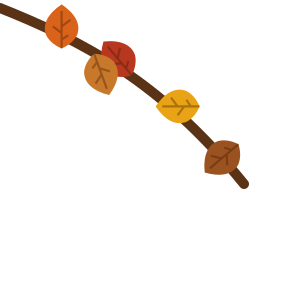
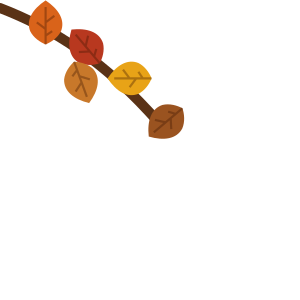
theme-pack: Autumn: shorter corner branch, tile clear of the INPUTS label, rimmed knob

Changed region(s): [[0.09, 0.0, 0.84, 0.63]]

diff --git a/tools/theme-pack/packs/themes/autumn.js b/tools/theme-pack/packs/themes/autumn.js
@@ -2,13 +2,13 @@
   // Falling leaves: leaves drifting behind everything, a branch in each top corner, a leaf pile along the bottom edge, amber light at focus, an acorn on every slider and a leaf on the switches.
   var SKY = '<svg style="position:absolute;left:447px;top:281.8px;opacity:0.42" width="29" height="29" viewBox="0 0 24 24" aria-hidden="true"><g transform="rotate(257 12 12)"><path d="M12 2C6 6 3 11 5 16c1.5 3 4.5 5 7 6 2.5-1 5.5-3 7-6 2-5-1-10-7-14z" fill="#D9631A"></path><path d="M12 5v17M12 12l-4-3M12 15l4-3M12 18l-3-2" stroke="rgba(60,20,0,0.35)" stroke-width="1" fill="none"></path></g></svg><svg style="position:absolute;left:1574.7px;top:86.8px;opacity:0.42" width="37" height="37" viewBox="0 0 24 24" aria-hidden="true"><g transform="rotate(76 12 12)"><path d="M12 2C6 6 3 11 5 16c1.5 3 4.5 5 7 6 2.5-1 5.5-3 7-6 2-5-1-10-7-14z" fill="#B8381F"></path><path d="M12 5v17M12 12l-4-3M12 15l4-3M12 18l-3-2" stroke="rgba(60,20,0,0.35)" stroke-width="1" fill="none"></path></g></svg><svg style="position:absolute;left:1465.1px;top:275.9px;opacity:0.47" width="29" height="29" viewBox="0 0 24 24" aria-hidden="true"><g transform="rotate(186 12 12)"><path d="M12 2C6 6 3 11 5 16c1.5 3 4.5 5 7 6 2.5-1 5.5-3 7-6 2-5-1-10-7-14z" fill="#E8A317"></path><path d="M12 5v17M12 12l-4-3M12 15l4-3M12 18l-3-2" stroke="rgba(60,20,0,0.35)" stroke-width="1" fill="none"></path></g></svg><svg style="position:absolute;left:1193.7px;top:400.3px;opacity:0.53" width="32" height="32" viewBox="0 0 24 24" aria-hidden="true"><g transform="rotate(143 12 12)"><path d="M12 2C6 6 3 11 5 16c1.5 3 4.5 5 7 6 2.5-1 5.5-3 7-6 2-5-1-10-7-14z" fill="#9A5320"></path><path d="M12 5v17M12 12l-4-3M12 15l4-3M12 18l-3-2" stroke="rgba(60,20,0,0.35)" stroke-width="1" fill="none"></path></g></svg><svg style="position:absolute;left:235.9px;top:747.5px;opacity:0.41" width="39" height="39" viewBox="0 0 24 24" aria-hidden="true"><g transform="rotate(109 12 12)"><path d="M12 2C6 6 3 11 5 16c1.5 3 4.5 5 7 6 2.5-1 5.5-3 7-6 2-5-1-10-7-14z" fill="#C8782A"></path><path d="M12 5v17M12 12l-4-3M12 15l4-3M12 18l-3-2" stroke="rgba(60,20,0,0.35)" stroke-width="1" fill="none"></path></g></svg><svg style="position:absolute;left:233.2px;top:587.7px;opacity:0.47" width="23" height="23" viewBox="0 0 24 24" aria-hidden="true"><g transform="rotate(332 12 12)"><path d="M12 2C6 6 3 11 5 16c1.5 3 4.5 5 7 6 2.5-1 5.5-3 7-6 2-5-1-10-7-14z" fill="#D9631A"></path><path d="M12 5v17M12 12l-4-3M12 15l4-3M12 18l-3-2" stroke="rgba(60,20,0,0.35)" stroke-width="1" fill="none"></path></g></svg><svg style="position:absolute;left:1500.5px;top:743.1px;opacity:0.41" width="43" height="43" viewBox="0 0 24 24" aria-hidden="true"><g transform="rotate(130 12 12)"><path d="M12 2C6 6 3 11 5 16c1.5 3 4.5 5 7 6 2.5-1 5.5-3 7-6 2-5-1-10-7-14z" fill="#B8381F"></path><path d="M12 5v17M12 12l-4-3M12 15l4-3M12 18l-3-2" stroke="rgba(60,20,0,0.35)" stroke-width="1" fill="none"></path></g></svg><svg style="position:absolute;left:1442.5px;top:32.5px;opacity:0.57" width="26" height="26" viewBox="0 0 24 24" aria-hidden="true"><g transform="rotate(63 12 12)"><path d="M12 2C6 6 3 11 5 16c1.5 3 4.5 5 7 6 2.5-1 5.5-3 7-6 2-5-1-10-7-14z" fill="#E8A317"></path><path d="M12 5v17M12 12l-4-3M12 15l4-3M12 18l-3-2" stroke="rgba(60,20,0,0.35)" stroke-width="1" fill="none"></path></g></svg><svg style="position:absolute;left:525.9px;top:888.7px;opacity:0.59" width="38" height="38" viewBox="0 0 24 24" aria-hidden="true"><g transform="rotate(261 12 12)"><path d="M12 2C6 6 3 11 5 16c1.5 3 4.5 5 7 6 2.5-1 5.5-3 7-6 2-5-1-10-7-14z" fill="#9A5320"></path><path d="M12 5v17M12 12l-4-3M12 15l4-3M12 18l-3-2" stroke="rgba(60,20,0,0.35)" stroke-width="1" fill="none"></path></g></svg><svg style="position:absolute;left:287.6px;top:471.3px;opacity:0.51" width="35" height="35" viewBox="0 0 24 24" aria-hidden="true"><g transform="rotate(148 12 12)"><path d="M12 2C6 6 3 11 5 16c1.5 3 4.5 5 7 6 2.5-1 5.5-3 7-6 2-5-1-10-7-14z" fill="#C8782A"></path><path d="M12 5v17M12 12l-4-3M12 15l4-3M12 18l-3-2" stroke="rgba(60,20,0,0.35)" stroke-width="1" fill="none"></path></g></svg><svg style="position:absolute;left:472.1px;top:629.8px;opacity:0.41" width="32" height="32" viewBox="0 0 24 24" aria-hidden="true"><g transform="rotate(273 12 12)"><path d="M12 2C6 6 3 11 5 16c1.5 3 4.5 5 7 6 2.5-1 5.5-3 7-6 2-5-1-10-7-14z" fill="#D9631A"></path><path d="M12 5v17M12 12l-4-3M12 15l4-3M12 18l-3-2" stroke="rgba(60,20,0,0.35)" stroke-width="1" fill="none"></path></g></svg><svg style="position:absolute;left:255.5px;top:36.3px;opacity:0.48" width="37" height="37" viewBox="0 0 24 24" aria-hidden="true"><g transform="rotate(209 12 12)"><path d="M12 2C6 6 3 11 5 16c1.5 3 4.5 5 7 6 2.5-1 5.5-3 7-6 2-5-1-10-7-14z" fill="#B8381F"></path><path d="M12 5v17M12 12l-4-3M12 15l4-3M12 18l-3-2" stroke="rgba(60,20,0,0.35)" stroke-width="1" fill="none"></path></g></svg><svg style="position:absolute;left:520.1px;top:1014.7px;opacity:0.43" width="25" height="25" viewBox="0 0 24 24" aria-hidden="true"><g transform="rotate(14 12 12)"><path d="M12 2C6 6 3 11 5 16c1.5 3 4.5 5 7 6 2.5-1 5.5-3 7-6 2-5-1-10-7-14z" fill="#E8A317"></path><path d="M12 5v17M12 12l-4-3M12 15l4-3M12 18l-3-2" stroke="rgba(60,20,0,0.35)" stroke-width="1" fill="none"></path></g></svg><svg style="position:absolute;left:959.4px;top:283.7px;opacity:0.55" width="29" height="29" viewBox="0 0 24 24" aria-hidden="true"><g transform="rotate(184 12 12)"><path d="M12 2C6 6 3 11 5 16c1.5 3 4.5 5 7 6 2.5-1 5.5-3 7-6 2-5-1-10-7-14z" fill="#9A5320"></path><path d="M12 5v17M12 12l-4-3M12 15l4-3M12 18l-3-2" stroke="rgba(60,20,0,0.35)" stroke-width="1" fill="none"></path></g></svg><svg style="position:absolute;left:376.6px;top:552.9px;opacity:0.52" width="26" height="26" viewBox="0 0 24 24" aria-hidden="true"><g transform="rotate(138 12 12)"><path d="M12 2C6 6 3 11 5 16c1.5 3 4.5 5 7 6 2.5-1 5.5-3 7-6 2-5-1-10-7-14z" fill="#C8782A"></path><path d="M12 5v17M12 12l-4-3M12 15l4-3M12 18l-3-2" stroke="rgba(60,20,0,0.35)" stroke-width="1" fill="none"></path></g></svg><svg style="position:absolute;left:277.5px;top:69.5px;opacity:0.60" width="37" height="37" viewBox="0 0 24 24" aria-hidden="true"><g transform="rotate(9 12 12)"><path d="M12 2C6 6 3 11 5 16c1.5 3 4.5 5 7 6 2.5-1 5.5-3 7-6 2-5-1-10-7-14z" fill="#D9631A"></path><path d="M12 5v17M12 12l-4-3M12 15l4-3M12 18l-3-2" stroke="rgba(60,20,0,0.35)" stroke-width="1" fill="none"></path></g></svg><svg style="position:absolute;left:478.3px;top:375.5px;opacity:0.47" width="39" height="39" viewBox="0 0 24 24" aria-hidden="true"><g transform="rotate(114 12 12)"><path d="M12 2C6 6 3 11 5 16c1.5 3 4.5 5 7 6 2.5-1 5.5-3 7-6 2-5-1-10-7-14z" fill="#B8381F"></path><path d="M12 5v17M12 12l-4-3M12 15l4-3M12 18l-3-2" stroke="rgba(60,20,0,0.35)" stroke-width="1" fill="none"></path></g></svg><svg style="position:absolute;left:1814.4px;top:562.3px;opacity:0.57" width="37" height="37" viewBox="0 0 24 24" aria-hidden="true"><g transform="rotate(12 12 12)"><path d="M12 2C6 6 3 11 5 16c1.5 3 4.5 5 7 6 2.5-1 5.5-3 7-6 2-5-1-10-7-14z" fill="#E8A317"></path><path d="M12 5v17M12 12l-4-3M12 15l4-3M12 18l-3-2" stroke="rgba(60,20,0,0.35)" stroke-width="1" fill="none"></path></g></svg><svg style="position:absolute;left:1202.3px;top:389.3px;opacity:0.48" width="25" height="25" viewBox="0 0 24 24" aria-hidden="true"><g transform="rotate(322 12 12)"><path d="M12 2C6 6 3 11 5 16c1.5 3 4.5 5 7 6 2.5-1 5.5-3 7-6 2-5-1-10-7-14z" fill="#9A5320"></path><path d="M12 5v17M12 12l-4-3M12 15l4-3M12 18l-3-2" stroke="rgba(60,20,0,0.35)" stroke-width="1" fill="none"></path></g></svg><svg style="position:absolute;left:903.1px;top:978.2px;opacity:0.58" width="35" height="35" viewBox="0 0 24 24" aria-hidden="true"><g transform="rotate(82 12 12)"><path d="M12 2C6 6 3 11 5 16c1.5 3 4.5 5 7 6 2.5-1 5.5-3 7-6 2-5-1-10-7-14z" fill="#C8782A"></path><path d="M12 5v17M12 12l-4-3M12 15l4-3M12 18l-3-2" stroke="rgba(60,20,0,0.35)" stroke-width="1" fill="none"></path></g></svg>';
   var BOTTOM = '<svg width="1920" height="54" viewBox="0 0 1920 54" aria-hidden="true"><g transform="translate(0 -16)"><path d="M0 54V40C200 32 380 38 600 36S1000 30 1300 38S1700 34 1920 36V54Z" fill="#4A2812" opacity="0.9"></path><ellipse cx="25" cy="44" rx="10" ry="6" transform="rotate(12 25 44)" fill="#D9631A" opacity="0.92"></ellipse><ellipse cx="68" cy="41" rx="10" ry="4" transform="rotate(22 68 41)" fill="#B8381F" opacity="0.92"></ellipse><ellipse cx="103" cy="36" rx="11" ry="5" transform="rotate(-22 103 36)" fill="#E8A317" opacity="0.92"></ellipse><ellipse cx="160" cy="41" rx="11" ry="6" transform="rotate(-26 160 41)" fill="#9A5320" opacity="0.92"></ellipse><ellipse cx="204" cy="39" rx="13" ry="5" transform="rotate(5 204 39)" fill="#C8782A" opacity="0.92"></ellipse><ellipse cx="234" cy="48" rx="11" ry="5" transform="rotate(-17 234 48)" fill="#D9631A" opacity="0.92"></ellipse><ellipse cx="272" cy="45" rx="10" ry="5" transform="rotate(28 272 45)" fill="#B8381F" opacity="0.92"></ellipse><ellipse cx="312" cy="46" rx="10" ry="5" transform="rotate(-13 312 46)" fill="#E8A317" opacity="0.92"></ellipse><ellipse cx="366" cy="41" rx="11" ry="5" transform="rotate(-24 366 41)" fill="#9A5320" opacity="0.92"></ellipse><ellipse cx="392" cy="35" rx="10" ry="6" transform="rotate(-13 392 35)" fill="#C8782A" opacity="0.92"></ellipse><ellipse cx="432" cy="40" rx="10" ry="5" transform="rotate(-30 432 40)" fill="#D9631A" opacity="0.92"></ellipse><ellipse cx="484" cy="37" rx="11" ry="5" transform="rotate(12 484 37)" fill="#B8381F" opacity="0.92"></ellipse><ellipse cx="520" cy="43" rx="10" ry="4" transform="rotate(-25 520 43)" fill="#E8A317" opacity="0.92"></ellipse><ellipse cx="564" cy="47" rx="14" ry="4" transform="rotate(-1 564 47)" fill="#9A5320" opacity="0.92"></ellipse><ellipse cx="597" cy="40" rx="9" ry="5" transform="rotate(17 597 40)" fill="#C8782A" opacity="0.92"></ellipse><ellipse cx="650" cy="38" rx="12" ry="6" transform="rotate(-27 650 38)" fill="#D9631A" opacity="0.92"></ellipse><ellipse cx="690" cy="47" rx="9" ry="5" transform="rotate(28 690 47)" fill="#B8381F" opacity="0.92"></ellipse><ellipse cx="724" cy="48" rx="10" ry="4" transform="rotate(28 724 48)" fill="#E8A317" opacity="0.92"></ellipse><ellipse cx="762" cy="36" rx="13" ry="5" transform="rotate(4 762 36)" fill="#9A5320" opacity="0.92"></ellipse><ellipse cx="815" cy="37" rx="9" ry="6" transform="rotate(-7 815 37)" fill="#C8782A" opacity="0.92"></ellipse><ellipse cx="847" cy="39" rx="12" ry="5" transform="rotate(-23 847 39)" fill="#D9631A" opacity="0.92"></ellipse><ellipse cx="892" cy="42" rx="10" ry="4" transform="rotate(-12 892 42)" fill="#B8381F" opacity="0.92"></ellipse><ellipse cx="935" cy="40" rx="12" ry="4" transform="rotate(-19 935 40)" fill="#E8A317" opacity="0.92"></ellipse><ellipse cx="968" cy="38" rx="14" ry="4" transform="rotate(6 968 38)" fill="#9A5320" opacity="0.92"></ellipse><ellipse cx="1012" cy="38" rx="10" ry="6" transform="rotate(8 1012 38)" fill="#C8782A" opacity="0.92"></ellipse><ellipse cx="1047" cy="36" rx="10" ry="5" transform="rotate(9 1047 36)" fill="#D9631A" opacity="0.92"></ellipse><ellipse cx="1095" cy="39" rx="13" ry="5" transform="rotate(-17 1095 39)" fill="#B8381F" opacity="0.92"></ellipse><ellipse cx="1128" cy="46" rx="14" ry="5" transform="rotate(-7 1128 46)" fill="#E8A317" opacity="0.92"></ellipse><ellipse cx="1176" cy="39" rx="14" ry="4" transform="rotate(9 1176 39)" fill="#9A5320" opacity="0.92"></ellipse><ellipse cx="1211" cy="34" rx="13" ry="6" transform="rotate(13 1211 34)" fill="#C8782A" opacity="0.92"></ellipse><ellipse cx="1253" cy="41" rx="9" ry="4" transform="rotate(-15 1253 41)" fill="#D9631A" opacity="0.92"></ellipse><ellipse cx="1297" cy="46" rx="12" ry="4" transform="rotate(-25 1297 46)" fill="#B8381F" opacity="0.92"></ellipse><ellipse cx="1351" cy="43" rx="11" ry="4" transform="rotate(3 1351 43)" fill="#E8A317" opacity="0.92"></ellipse><ellipse cx="1386" cy="40" rx="12" ry="5" transform="rotate(15 1386 40)" fill="#9A5320" opacity="0.92"></ellipse><ellipse cx="1432" cy="44" rx="10" ry="4" transform="rotate(-26 1432 44)" fill="#C8782A" opacity="0.92"></ellipse><ellipse cx="1464" cy="48" rx="9" ry="6" transform="rotate(17 1464 48)" fill="#D9631A" opacity="0.92"></ellipse><ellipse cx="1496" cy="41" rx="13" ry="5" transform="rotate(12 1496 41)" fill="#B8381F" opacity="0.92"></ellipse><ellipse cx="1540" cy="43" rx="11" ry="5" transform="rotate(24 1540 43)" fill="#E8A317" opacity="0.92"></ellipse><ellipse cx="1583" cy="41" rx="10" ry="5" transform="rotate(-8 1583 41)" fill="#9A5320" opacity="0.92"></ellipse><ellipse cx="1621" cy="48" rx="14" ry="6" transform="rotate(-2 1621 48)" fill="#C8782A" opacity="0.92"></ellipse><ellipse cx="1666" cy="36" rx="10" ry="5" transform="rotate(10 1666 36)" fill="#D9631A" opacity="0.92"></ellipse><ellipse cx="1715" cy="36" rx="12" ry="5" transform="rotate(-11 1715 36)" fill="#B8381F" opacity="0.92"></ellipse><ellipse cx="1746" cy="38" rx="11" ry="6" transform="rotate(-22 1746 38)" fill="#E8A317" opacity="0.92"></ellipse><ellipse cx="1788" cy="38" rx="12" ry="6" transform="rotate(20 1788 38)" fill="#9A5320" opacity="0.92"></ellipse><ellipse cx="1826" cy="44" rx="12" ry="5" transform="rotate(23 1826 44)" fill="#C8782A" opacity="0.92"></ellipse><ellipse cx="1876" cy="47" rx="11" ry="5" transform="rotate(-1 1876 47)" fill="#D9631A" opacity="0.92"></ellipse></g></svg>';
-  var CORNER = '<svg width="150" height="150" viewBox="0 0 150 150" aria-hidden="true"><path d="M150 4C110 20 70 40 28 92" stroke="#5A3216" stroke-width="5" fill="none" stroke-linecap="round"></path><g transform="translate(106 0) scale(1.1)"><g transform="rotate(0 12 12)"><path d="M12 2C6 6 3 11 5 16c1.5 3 4.5 5 7 6 2.5-1 5.5-3 7-6 2-5-1-10-7-14z" fill="#D9631A"></path><path d="M12 5v17M12 12l-4-3M12 15l4-3M12 18l-3-2" stroke="rgba(60,20,0,0.35)" stroke-width="1" fill="none"></path></g></g><g transform="translate(78 16) scale(1.1)"><g transform="rotate(40 12 12)"><path d="M12 2C6 6 3 11 5 16c1.5 3 4.5 5 7 6 2.5-1 5.5-3 7-6 2-5-1-10-7-14z" fill="#B8381F"></path><path d="M12 5v17M12 12l-4-3M12 15l4-3M12 18l-3-2" stroke="rgba(60,20,0,0.35)" stroke-width="1" fill="none"></path></g></g><g transform="translate(48 40) scale(1.1)"><g transform="rotate(90 12 12)"><path d="M12 2C6 6 3 11 5 16c1.5 3 4.5 5 7 6 2.5-1 5.5-3 7-6 2-5-1-10-7-14z" fill="#E8A317"></path><path d="M12 5v17M12 12l-4-3M12 15l4-3M12 18l-3-2" stroke="rgba(60,20,0,0.35)" stroke-width="1" fill="none"></path></g></g><g transform="translate(26 66) scale(1.1)"><g transform="rotate(130 12 12)"><path d="M12 2C6 6 3 11 5 16c1.5 3 4.5 5 7 6 2.5-1 5.5-3 7-6 2-5-1-10-7-14z" fill="#9A5320"></path><path d="M12 5v17M12 12l-4-3M12 15l4-3M12 18l-3-2" stroke="rgba(60,20,0,0.35)" stroke-width="1" fill="none"></path></g></g><g transform="translate(86 24) scale(1.1)"><g transform="rotate(200 12 12)"><path d="M12 2C6 6 3 11 5 16c1.5 3 4.5 5 7 6 2.5-1 5.5-3 7-6 2-5-1-10-7-14z" fill="#C8782A"></path><path d="M12 5v17M12 12l-4-3M12 15l4-3M12 18l-3-2" stroke="rgba(60,20,0,0.35)" stroke-width="1" fill="none"></path></g></g></svg>';
-  var CORNER_L = '<svg width="150" height="150" viewBox="0 0 150 150" aria-hidden="true" style="-webkit-transform:scaleX(-1);transform:scaleX(-1)"><path d="M150 4C110 20 70 40 28 92" stroke="#5A3216" stroke-width="5" fill="none" stroke-linecap="round"></path><g transform="translate(106 0) scale(1.1)"><g transform="rotate(0 12 12)"><path d="M12 2C6 6 3 11 5 16c1.5 3 4.5 5 7 6 2.5-1 5.5-3 7-6 2-5-1-10-7-14z" fill="#D9631A"></path><path d="M12 5v17M12 12l-4-3M12 15l4-3M12 18l-3-2" stroke="rgba(60,20,0,0.35)" stroke-width="1" fill="none"></path></g></g><g transform="translate(78 16) scale(1.1)"><g transform="rotate(40 12 12)"><path d="M12 2C6 6 3 11 5 16c1.5 3 4.5 5 7 6 2.5-1 5.5-3 7-6 2-5-1-10-7-14z" fill="#B8381F"></path><path d="M12 5v17M12 12l-4-3M12 15l4-3M12 18l-3-2" stroke="rgba(60,20,0,0.35)" stroke-width="1" fill="none"></path></g></g><g transform="translate(48 40) scale(1.1)"><g transform="rotate(90 12 12)"><path d="M12 2C6 6 3 11 5 16c1.5 3 4.5 5 7 6 2.5-1 5.5-3 7-6 2-5-1-10-7-14z" fill="#E8A317"></path><path d="M12 5v17M12 12l-4-3M12 15l4-3M12 18l-3-2" stroke="rgba(60,20,0,0.35)" stroke-width="1" fill="none"></path></g></g><g transform="translate(26 66) scale(1.1)"><g transform="rotate(130 12 12)"><path d="M12 2C6 6 3 11 5 16c1.5 3 4.5 5 7 6 2.5-1 5.5-3 7-6 2-5-1-10-7-14z" fill="#9A5320"></path><path d="M12 5v17M12 12l-4-3M12 15l4-3M12 18l-3-2" stroke="rgba(60,20,0,0.35)" stroke-width="1" fill="none"></path></g></g><g transform="translate(86 24) scale(1.1)"><g transform="rotate(200 12 12)"><path d="M12 2C6 6 3 11 5 16c1.5 3 4.5 5 7 6 2.5-1 5.5-3 7-6 2-5-1-10-7-14z" fill="#C8782A"></path><path d="M12 5v17M12 12l-4-3M12 15l4-3M12 18l-3-2" stroke="rgba(60,20,0,0.35)" stroke-width="1" fill="none"></path></g></g></svg>';
+  var CORNER = '<svg width="150" height="150" viewBox="0 0 150 150" aria-hidden="true"><path d="M150 4C124 14 98 30 70 62" stroke="#5A3216" stroke-width="5" fill="none" stroke-linecap="round"></path><g transform="translate(114 -2) scale(1.1)"><g transform="rotate(0 12 12)"><path d="M12 2C6 6 3 11 5 16c1.5 3 4.5 5 7 6 2.5-1 5.5-3 7-6 2-5-1-10-7-14z" fill="#D9631A"></path><path d="M12 5v17M12 12l-4-3M12 15l4-3M12 18l-3-2" stroke="rgba(60,20,0,0.35)" stroke-width="1" fill="none"></path></g></g><g transform="translate(94 10) scale(1.1)"><g transform="rotate(40 12 12)"><path d="M12 2C6 6 3 11 5 16c1.5 3 4.5 5 7 6 2.5-1 5.5-3 7-6 2-5-1-10-7-14z" fill="#B8381F"></path><path d="M12 5v17M12 12l-4-3M12 15l4-3M12 18l-3-2" stroke="rgba(60,20,0,0.35)" stroke-width="1" fill="none"></path></g></g><g transform="translate(72 26) scale(1.1)"><g transform="rotate(90 12 12)"><path d="M12 2C6 6 3 11 5 16c1.5 3 4.5 5 7 6 2.5-1 5.5-3 7-6 2-5-1-10-7-14z" fill="#E8A317"></path><path d="M12 5v17M12 12l-4-3M12 15l4-3M12 18l-3-2" stroke="rgba(60,20,0,0.35)" stroke-width="1" fill="none"></path></g></g><g transform="translate(54 48) scale(1.1)"><g transform="rotate(130 12 12)"><path d="M12 2C6 6 3 11 5 16c1.5 3 4.5 5 7 6 2.5-1 5.5-3 7-6 2-5-1-10-7-14z" fill="#9A5320"></path><path d="M12 5v17M12 12l-4-3M12 15l4-3M12 18l-3-2" stroke="rgba(60,20,0,0.35)" stroke-width="1" fill="none"></path></g></g><g transform="translate(96 28) scale(1.1)"><g transform="rotate(200 12 12)"><path d="M12 2C6 6 3 11 5 16c1.5 3 4.5 5 7 6 2.5-1 5.5-3 7-6 2-5-1-10-7-14z" fill="#C8782A"></path><path d="M12 5v17M12 12l-4-3M12 15l4-3M12 18l-3-2" stroke="rgba(60,20,0,0.35)" stroke-width="1" fill="none"></path></g></g></svg>';
+  var CORNER_L = '<svg width="150" height="150" viewBox="0 0 150 150" aria-hidden="true" style="-webkit-transform:scaleX(-1);transform:scaleX(-1)"><path d="M150 4C124 14 98 30 70 62" stroke="#5A3216" stroke-width="5" fill="none" stroke-linecap="round"></path><g transform="translate(114 -2) scale(1.1)"><g transform="rotate(0 12 12)"><path d="M12 2C6 6 3 11 5 16c1.5 3 4.5 5 7 6 2.5-1 5.5-3 7-6 2-5-1-10-7-14z" fill="#D9631A"></path><path d="M12 5v17M12 12l-4-3M12 15l4-3M12 18l-3-2" stroke="rgba(60,20,0,0.35)" stroke-width="1" fill="none"></path></g></g><g transform="translate(94 10) scale(1.1)"><g transform="rotate(40 12 12)"><path d="M12 2C6 6 3 11 5 16c1.5 3 4.5 5 7 6 2.5-1 5.5-3 7-6 2-5-1-10-7-14z" fill="#B8381F"></path><path d="M12 5v17M12 12l-4-3M12 15l4-3M12 18l-3-2" stroke="rgba(60,20,0,0.35)" stroke-width="1" fill="none"></path></g></g><g transform="translate(72 26) scale(1.1)"><g transform="rotate(90 12 12)"><path d="M12 2C6 6 3 11 5 16c1.5 3 4.5 5 7 6 2.5-1 5.5-3 7-6 2-5-1-10-7-14z" fill="#E8A317"></path><path d="M12 5v17M12 12l-4-3M12 15l4-3M12 18l-3-2" stroke="rgba(60,20,0,0.35)" stroke-width="1" fill="none"></path></g></g><g transform="translate(54 48) scale(1.1)"><g transform="rotate(130 12 12)"><path d="M12 2C6 6 3 11 5 16c1.5 3 4.5 5 7 6 2.5-1 5.5-3 7-6 2-5-1-10-7-14z" fill="#9A5320"></path><path d="M12 5v17M12 12l-4-3M12 15l4-3M12 18l-3-2" stroke="rgba(60,20,0,0.35)" stroke-width="1" fill="none"></path></g></g><g transform="translate(96 28) scale(1.1)"><g transform="rotate(200 12 12)"><path d="M12 2C6 6 3 11 5 16c1.5 3 4.5 5 7 6 2.5-1 5.5-3 7-6 2-5-1-10-7-14z" fill="#C8782A"></path><path d="M12 5v17M12 12l-4-3M12 15l4-3M12 18l-3-2" stroke="rgba(60,20,0,0.35)" stroke-width="1" fill="none"></path></g></g></svg>';
   var ACCENT = '<svg width="100%" height="100%" viewBox="0 0 24 24" aria-hidden="true"><g transform="rotate(-20 12 12)"><path d="M12 2C6 6 3 11 5 16c1.5 3 4.5 5 7 6 2.5-1 5.5-3 7-6 2-5-1-10-7-14z" fill="#D9631A"></path><path d="M12 5v17M12 12l-4-3M12 15l4-3M12 18l-3-2" stroke="rgba(60,20,0,0.35)" stroke-width="1" fill="none"></path></g></svg>';
   var TILE = '<svg width="100%" height="100%" viewBox="0 0 24 24" aria-hidden="true"><g transform="rotate(25 12 12)"><path d="M12 2C6 6 3 11 5 16c1.5 3 4.5 5 7 6 2.5-1 5.5-3 7-6 2-5-1-10-7-14z" fill="#E8A317"></path><path d="M12 5v17M12 12l-4-3M12 15l4-3M12 18l-3-2" stroke="rgba(60,20,0,0.35)" stroke-width="1" fill="none"></path></g></svg>';
   var CHIP = '<svg width="100%" height="100%" viewBox="0 0 24 24" aria-hidden="true"><g transform="rotate(15 12 12)"><path d="M12 2C6 6 3 11 5 16c1.5 3 4.5 5 7 6 2.5-1 5.5-3 7-6 2-5-1-10-7-14z" fill="#B8381F"></path><path d="M12 5v17M12 12l-4-3M12 15l4-3M12 18l-3-2" stroke="rgba(60,20,0,0.35)" stroke-width="1" fill="none"></path></g></svg>';
   var THUMB = '<svg width="100%" height="100%" viewBox="0 0 40 40" aria-hidden="true"><ellipse cx="20" cy="25" rx="11" ry="12" fill="#C98B3F"></ellipse><path d="M8 19C8 8 32 8 32 19z" fill="#6B3E1B"></path><path d="M20 8V3" stroke="#6B3E1B" stroke-width="3" stroke-linecap="round"></path><path d="M11 17h18M13 13h14" stroke="rgba(0,0,0,0.25)" stroke-width="1"></path></svg>';
-  var KNOB = '<svg width="100%" height="100%" viewBox="0 0 40 40" aria-hidden="true"><circle cx="20" cy="20" r="18" fill="#F6D9A0"></circle><g transform="translate(8 8)"><g transform="rotate(0 12 12)"><path d="M12 2C6 6 3 11 5 16c1.5 3 4.5 5 7 6 2.5-1 5.5-3 7-6 2-5-1-10-7-14z" fill="#C2551A"></path><path d="M12 5v17M12 12l-4-3M12 15l4-3M12 18l-3-2" stroke="rgba(60,20,0,0.35)" stroke-width="1" fill="none"></path></g></g></svg>';
+  var KNOB = '<svg width="100%" height="100%" viewBox="0 0 40 40" aria-hidden="true"><circle cx="20" cy="20" r="17" fill="#F6D9A0" stroke="rgba(30,20,40,0.5)" stroke-width="2"></circle><g transform="translate(8 8)"><g transform="rotate(0 12 12)"><path d="M12 2C6 6 3 11 5 16c1.5 3 4.5 5 7 6 2.5-1 5.5-3 7-6 2-5-1-10-7-14z" fill="#C2551A"></path><path d="M12 5v17M12 12l-4-3M12 15l4-3M12 18l-3-2" stroke="rgba(60,20,0,0.35)" stroke-width="1" fill="none"></path></g></g></svg>';
   var GLOW = '#FFA13D';
   var pack = {
     kind: 'theme', id: 'autumn', name: 'Autumn',
@@ -21,7 +21,7 @@
       { target: 'toast', slot: 'front', when: 'always', outset: [30, 0, 0, -30], cost: 'static', style: 'right:auto;bottom:auto;width:44px;height:44px', html: ACCENT, asset: 'accent.png' },
       { target: 'dialog', slot: 'front', when: 'always', outset: [30, 0, 0, -30], cost: 'static', style: 'right:auto;bottom:auto;width:44px;height:44px', html: ACCENT, asset: 'accent.png' },
       { target: 'ribbon', slot: 'back', when: 'always', outset: [0, 96, 54, 96], cost: 'static', style: 'top:auto;height:54px', html: BOTTOM, asset: 'bottom.png' },
-      { target: 'tile', slot: 'front', when: 'always', outset: [18, 0, 0, 18], cost: 'static', style: 'right:auto;bottom:auto;width:36px;height:36px', html: TILE, asset: 'tile.png' },
+      { target: 'tile', slot: 'front', when: 'always', outset: [10, 0, 0, 10], cost: 'static', style: 'right:auto;bottom:auto;width:36px;height:36px', html: TILE, asset: 'tile.png' },
       { target: '*', slot: 'back', when: 'focused', outset: 26, cost: 'glow', fill: GLOW, radius: 56, blur: 16, opacity: 0.45 },
       { target: 'chip', slot: 'front', when: 'always', outset: [12, 0, 0, 12], cost: 'static', style: 'right:auto;bottom:auto;width:22px;height:22px', html: CHIP, asset: 'chip.png' },
       { target: 'thumb', slot: 'front', when: 'always', outset: 10, cost: 'static', html: THUMB, asset: 'thumb.png' },
